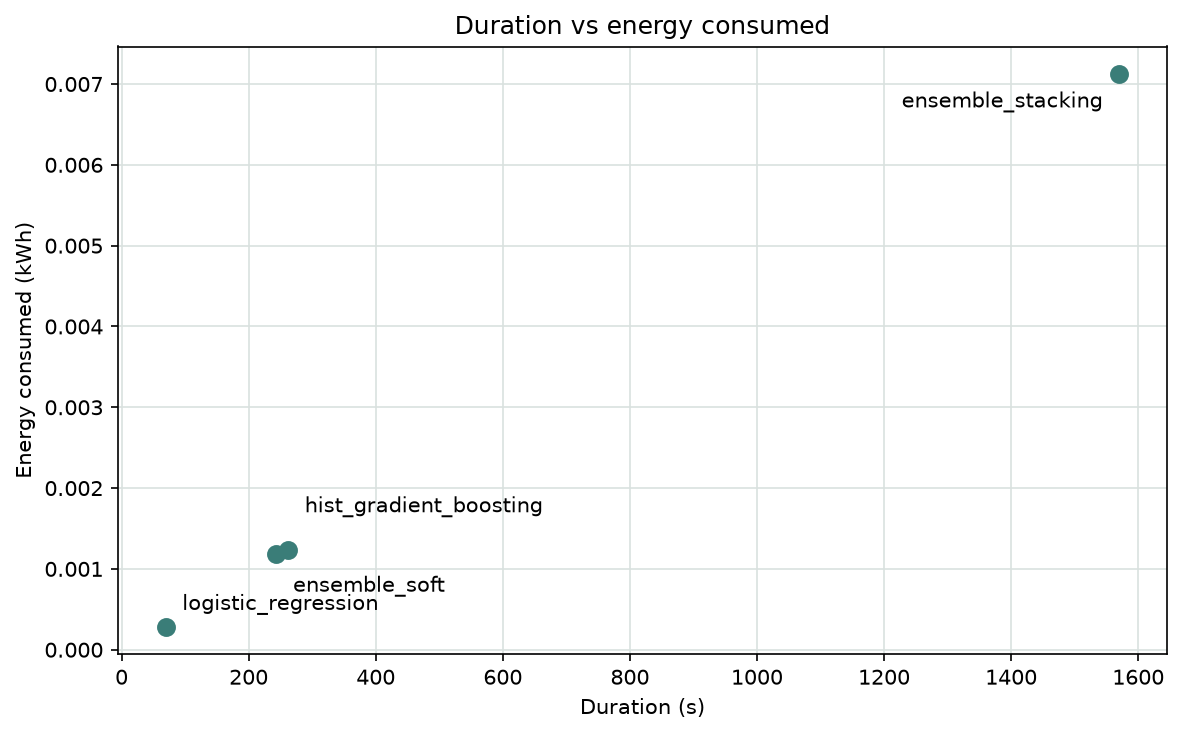
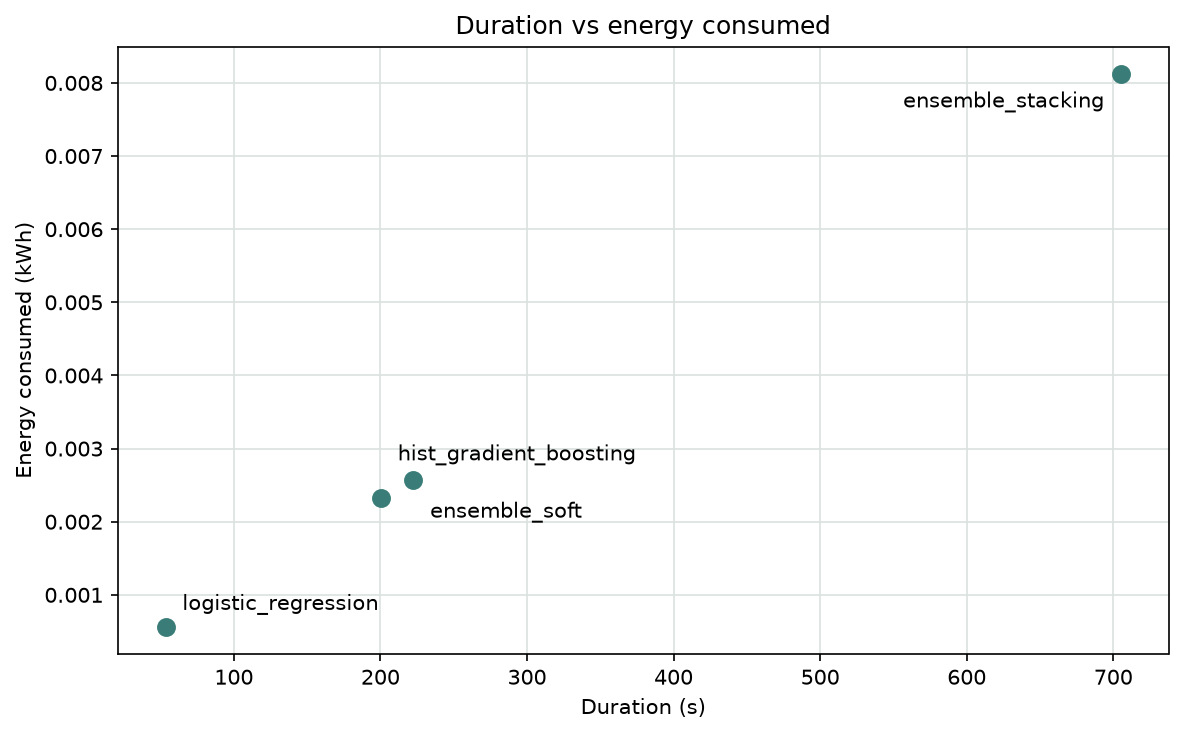
data: reproduce pipeline with the fairness stage
dvc.lock now records the fairness stage and the new fairness params on
train and benchmark, so CI's "dvc.lock is stale" check passes. The
retrained model scores the same as before (metrics.json changes only
in inference energy, fairness.json is unchanged). The emissions log,
energy figures and the model card's CO2 header pick up the new run.

diff --git a/docs/model_card.md b/docs/model_card.md
@@ -1,12 +1,13 @@
 ---
 co2_eq_emissions:
-  emissions: 0.0901
-  power_consumption: 0.000518
+  emissions: 0.178
+  power_consumption: 0.001022
   source: CodeCarbon 3.3.1 (EmissionsTracker), reports/emissions/emissions.csv
   training_type: pre-training
   geographical_location: catalonia, Spain
-  hardware_used: 12 x 13th Gen Intel(R) Core(TM) i7-1355U (CPU)
-  training_time: 107.9
+  hardware_used: 12 x Intel(R) Core(TM) i7-9750H CPU @ 2.60GHz (CPU), 1 x 1 x NVIDIA GeForce GTX 1650
+    (GPU)
+  training_time: 93.2
   optimization_techniques: histogram-based gradient boosting (binned features); ensembles rejected because
     their extra energy bought no meaningful PR-AUC gain
 model_info:
